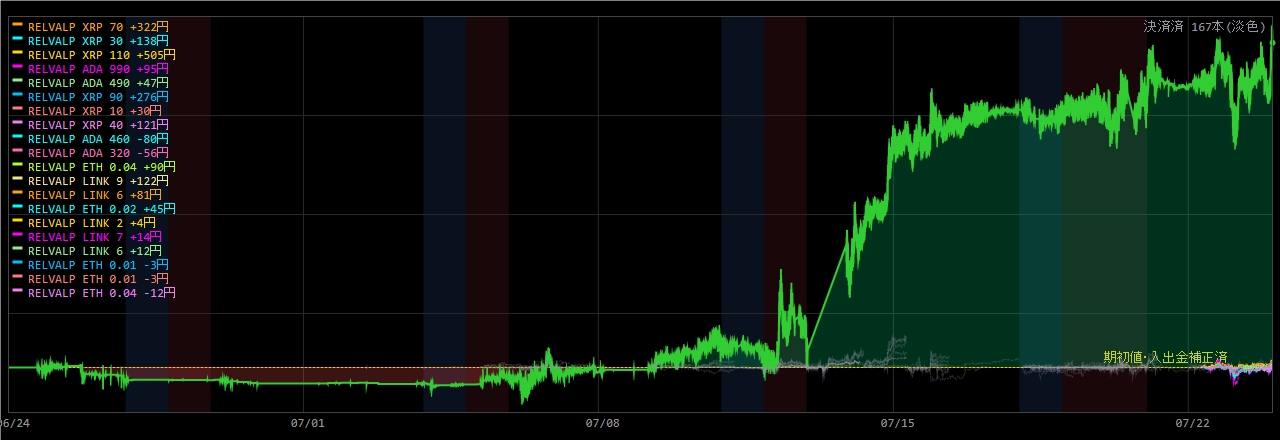
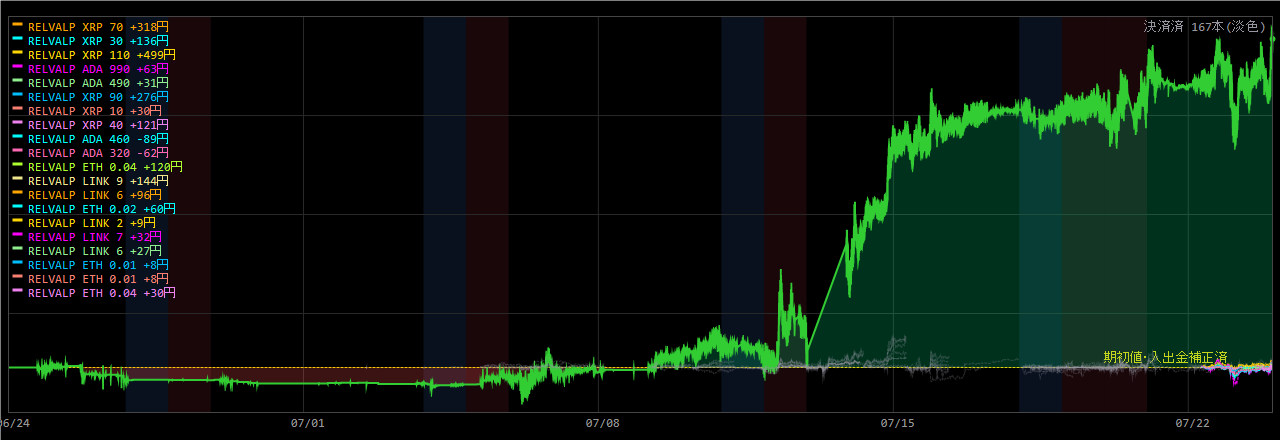
Coin100S 運用状況更新 07-23 22:53

diff --git a/coin100s-795hc4jfv8/index.html b/coin100s-795hc4jfv8/index.html
@@ -14,16 +14,16 @@ a{color:#60a5fa;text-decoration:none} a:hover{text-decoration:underline}
 .meta{color:#94a3b8;font-size:13px}</style>
 <script>setTimeout(function(){location.replace(location.pathname+"?t="+Date.now());},300000);</script></head><body>
 <h1>Coin100S ダッシュボード</h1>
-<p class="meta">スナップショット: 2026-07-23 22:46:39(自動リロード・最新化)</p>
+<p class="meta">スナップショット: 2026-07-23 22:52:39(自動リロード・最新化)</p>
 <div class="cards">
 <div class="card">建玉数<div class="v">20</div></div>
 <div class="card">本日損益<div class="v pos">+469円</div></div>
-<div class="card">評価損益<div class="v pos">+1,763円</div></div>
+<div class="card">評価損益<div class="v pos">+1,898円</div></div>
 </div>
 <h2>現在の建玉</h2>
-<table><tr><th>銘柄</th><th>側</th><th>数量</th><th>建値</th><th>含損益</th><th>レッグ</th></tr><tr><td>ADA_JPY</td><td>SELL</td><td>320</td><td>@28</td><td>-63円</td><td>RELVALP_SL700</td></tr><tr><td>ADA_JPY</td><td>SELL</td><td>460</td><td>@28</td><td>-91円</td><td>RELVALP_SELL</td></tr><tr><td>ADA_JPY</td><td>SELL</td><td>490</td><td>@28</td><td>+31円</td><td>RELVALP_SL700</td></tr><tr><td>ADA_JPY</td><td>SELL</td><td>990</td><td>@28</td><td>+63円</td><td>RELVALP_SELL</td></tr><tr><td>ETH_JPY</td><td>SELL</td><td>0.04</td><td>@312,191</td><td>-1円</td><td>RELVALP_SELL</td></tr><tr><td>ETH_JPY</td><td>SELL</td><td>0.01</td><td>@312,191</td><td>-1円</td><td>RELVALP_SELL</td></tr><tr><td>ETH_JPY</td><td>SELL</td><td>0.01</td><td>@312,216</td><td>0円</td><td>RELVALP_SELL</td></tr><tr><td>ETH_JPY</td><td>SELL</td><td>0.02</td><td>@314,458</td><td>+44円</td><td>RELVALP_SL700</td></tr><tr><td>ETH_JPY</td><td>SELL</td><td>0.04</td><td>@314,458</td><td>+89円</td><td>RELVALP_SELL</td></tr><tr><td>LINK_JPY</td><td>SELL</td><td>6</td><td>@1,398</td><td>+24円</td><td>RELVALP_SL700</td></tr><tr><td>LINK_JPY</td><td>SELL</td><td>7</td><td>@1,398</td><td>+28円</td><td>RELVALP_SELL</td></tr><tr><td>LINK_JPY</td><td>SELL</td><td>2</td><td>@1,398</td><td>+8円</td><td>RELVALP_SELL</td></tr><tr><td>LINK_JPY</td><td>SELL</td><td>6</td><td>@1,409</td><td>+90円</td><td>RELVALP_SL700</td></tr><tr><td>LINK_JPY</td><td>SELL</td><td>9</td><td>@1,409</td><td>+135円</td><td>RELVALP_SELL</td></tr><tr><td>XRP_JPY</td><td>SELL</td><td>40</td><td>@186</td><td>+128円</td><td>RELVALP_SL700</td></tr><tr><td>XRP_JPY</td><td>SELL</td><td>10</td><td>@186</td><td>+32円</td><td>RELVALP_SELL</td></tr><tr><td>XRP_JPY</td><td>SELL</td><td>90</td><td>@186</td><td>+290円</td><td>RELVALP_SELL</td></tr><tr><td>XRP_JPY</td><td>SELL</td><td>110</td><td>@187</td><td>+506円</td><td>RELVALP_SELL</td></tr><tr><td>XRP_JPY</td><td>SELL</td><td>30</td><td>@187</td><td>+138円</td><td>RELVALP_SELL</td></tr><tr><td>XRP_JPY</td><td>SELL</td><td>70</td><td>@187</td><td>+322円</td><td>RELVALP_SL700</td></tr></table>
+<table><tr><th>銘柄</th><th>側</th><th>数量</th><th>建値</th><th>含損益</th><th>レッグ</th></tr><tr><td>ADA_JPY</td><td>SELL</td><td>320</td><td>@28</td><td>-63円</td><td>RELVALP_SL700</td></tr><tr><td>ADA_JPY</td><td>SELL</td><td>460</td><td>@28</td><td>-91円</td><td>RELVALP_SELL</td></tr><tr><td>ADA_JPY</td><td>SELL</td><td>490</td><td>@28</td><td>+31円</td><td>RELVALP_SL700</td></tr><tr><td>ADA_JPY</td><td>SELL</td><td>990</td><td>@28</td><td>+63円</td><td>RELVALP_SELL</td></tr><tr><td>ETH_JPY</td><td>SELL</td><td>0.04</td><td>@312,191</td><td>+31円</td><td>RELVALP_SELL</td></tr><tr><td>ETH_JPY</td><td>SELL</td><td>0.01</td><td>@312,191</td><td>+7円</td><td>RELVALP_SELL</td></tr><tr><td>ETH_JPY</td><td>SELL</td><td>0.01</td><td>@312,216</td><td>+8円</td><td>RELVALP_SELL</td></tr><tr><td>ETH_JPY</td><td>SELL</td><td>0.02</td><td>@314,458</td><td>+61円</td><td>RELVALP_SL700</td></tr><tr><td>ETH_JPY</td><td>SELL</td><td>0.04</td><td>@314,458</td><td>+122円</td><td>RELVALP_SELL</td></tr><tr><td>LINK_JPY</td><td>SELL</td><td>6</td><td>@1,398</td><td>+24円</td><td>RELVALP_SL700</td></tr><tr><td>LINK_JPY</td><td>SELL</td><td>7</td><td>@1,398</td><td>+28円</td><td>RELVALP_SELL</td></tr><tr><td>LINK_JPY</td><td>SELL</td><td>2</td><td>@1,398</td><td>+8円</td><td>RELVALP_SELL</td></tr><tr><td>LINK_JPY</td><td>SELL</td><td>6</td><td>@1,409</td><td>+90円</td><td>RELVALP_SL700</td></tr><tr><td>LINK_JPY</td><td>SELL</td><td>9</td><td>@1,409</td><td>+135円</td><td>RELVALP_SELL</td></tr><tr><td>XRP_JPY</td><td>SELL</td><td>40</td><td>@186</td><td>+131円</td><td>RELVALP_SL700</td></tr><tr><td>XRP_JPY</td><td>SELL</td><td>10</td><td>@186</td><td>+32円</td><td>RELVALP_SELL</td></tr><tr><td>XRP_JPY</td><td>SELL</td><td>90</td><td>@186</td><td>+298円</td><td>RELVALP_SELL</td></tr><tr><td>XRP_JPY</td><td>SELL</td><td>110</td><td>@187</td><td>+515円</td><td>RELVALP_SELL</td></tr><tr><td>XRP_JPY</td><td>SELL</td><td>30</td><td>@187</td><td>+140円</td><td>RELVALP_SELL</td></tr><tr><td>XRP_JPY</td><td>SELL</td><td>70</td><td>@187</td><td>+328円</td><td>RELVALP_SL700</td></tr></table>
 <p><a href="status.html"><b>▶ 運用状況の詳細(チャート・本日の取引・レジーム)</b></a></p>
 <h2>日報一覧</h2>
 <table><tr><th>取引日</th><th>実現損益</th><th>総括</th></tr><tr><td><a href='reports/20260722_Coin100S日報.html'>2026-07-22</a></td><td class="pos">+0円</td><td class='meta'>実取引: 新規10件/決済5件、実現損益 +0円。シグナル却下1件（最多: BW10M3_5M／トレンド方向ゲート(N分傾き下と不一致=逆張り方向のfade禁止)）。⚠警告/エラー 9件（要確認）。</td></tr><tr><td><a href='reports/20260721_Coin100S日報.html'>2026-07-21</a></td><td class="pos">+0円</td><td class='meta'>実取引: 新規4件/決済13件、実現損益 +0円。⚠警告/エラー 13件（要確認）。</td></tr><tr><td><a href='reports/20260720_Coin100S日報.html'>2026-07-20</a></td><td class="pos">+0円</td><td class='meta'>実取引: 新規8件/決済21件、実現損益 +0円。シグナル却下8件（最多: BW10M3_5M／トレンド方向ゲート(N分傾き上と不一致=逆張り方向のfade禁止)）。⚠警告/エラー 13件（要確認）。</td></tr><tr><td><a href='reports/20260719_Coin100S日報.html'>2026-07-19</a></td><td class="pos">+0円</td><td class='meta'>実取引: 新規10件/決済7件、実現損益 +0円。⚠警告/エラー 3件（要確認）。</td></tr><tr><td><a href='reports/20260718_Coin100S日報.html'>2026-07-18</a></td><td class="pos">+0円</td><td class='meta'>実取引: 新規9件/決済8件、実現損益 +0円。警告/孤児/エラーなし＝健全。</td></tr><tr><td><a href='reports/20260717_Coin100S日報.html'>2026-07-17</a></td><td class="pos">+0円</td><td class='meta'>実取引: 新規3件/決済2件、実現損益 +0円。シグナル却下1件（最多: BW10M3_5M／トレンド方向ゲート(N分傾き下と不一致=逆張り方向のfade禁止)）。⚠警告/エラー 2件（要確認）。</td></tr><tr><td><a href='reports/20260716_Coin100S日報.html'>2026-07-16</a></td><td class="pos">+0円</td><td class='meta'>実取引: 新規0件/決済5件、実現損益 +0円。⚠警告/エラー 7件（要確認）。</td></tr><tr><td><a href='reports/20260715_Coin100S日報.html'>2026-07-15</a></td><td class="pos">+0円</td><td class='meta'>実取引: 新規6件/決済5件、実現損益 +0円。シグナル却下6件（最多: BW10M3_5M／トレンド方向ゲート(N分傾き上と不一致=逆張り方向のfade禁止)）。⚠警告/エラー 7件（要確認）。</td></tr><tr><td><a href='reports/20260714_Coin100S日報.html'>2026-07-14</a></td><td class="pos">+0円</td><td class='meta'>実取引: 新規6件/決済18件、実現損益 +0円。シグナル却下5件（最多: BW10M3_5M／トレンド方向ゲート(N分傾き上と不一致=逆張り方向のfade禁止)）。⚠警告/エラー 9件（要確認）。</td></tr><tr><td><a href='reports/20260713_Coin100S日報.html'>2026-07-13</a></td><td class="pos">+0円</td><td class='meta'>実取引: 新規5件/決済8件、実現損益 +0円。シグナル却下1件（最多: BW10M3_5M／トレンド方向ゲート(N分傾き上と不一致=逆張り方向のfade禁止)）。警告/孤児/エラーなし＝健全。</td></tr><tr><td><a href='reports/20260712_Coin100S日報.html'>2026-07-12</a></td><td class="pos">+0円</td><td class='meta'>実取引: 新規14件/決済6件、実現損益 +0円。シグナル却下5件（最多: BW10M3_5M／トレンド方向ゲート(N分傾き下と不一致=逆張り方向のfade禁止)）。⚠警告/エラー 2件（要確認）。</td></tr><tr><td><a href='reports/20260711_Coin100S日報.html'>2026-07-11</a></td><td class="pos">+0円</td><td class='meta'>実取引: 新規7件/決済6件、実現損益 +0円。⚠警告/エラー 52件（要確認）。</td></tr><tr><td><a href='reports/20260710_Coin100S日報.html'>2026-07-10</a></td><td class="pos">+0円</td><td class='meta'>実取引: 新規7件/決済6件、実現損益 +0円。シグナル却下6件（最多: BW10M3_5M／トレンド方向ゲート(N分傾き上と不一致=逆張り方向のfade禁止)）。警告/孤児/エラーなし＝健全。</td></tr><tr><td><a href='reports/20260709_Coin100S日報.html'>2026-07-09</a></td><td class="pos">+0円</td><td class='meta'>実取引: 新規8件/決済3件、実現損益 +0円。シグナル却下5件（最多: SD120M_5M／トレンド方向ゲート(N分傾き上と不一致=逆張り方向のfade禁止)）。警告/孤児/エラーなし＝健全。</td></tr><tr><td><a href='reports/20260708_Coin100S日報.html'>2026-07-08</a></td><td class="pos">+0円</td><td class='meta'>実取引: 新規2件/決済4件、実現損益 +0円。シグナル却下4件（最多: SD120M_5M／トレンド方向ゲート(N分傾き下と不一致=逆張り方向のfade禁止)）。警告/孤児/エラーなし＝健全。</td></tr><tr><td><a href='reports/20260707_Coin100S日報.html'>2026-07-07</a></td><td class="pos">+0円</td><td class='meta'>実取引: 新規8件/決済6件、実現損益 +0円。シグナル却下4件（最多: SD120M_5M／トレンド方向ゲート(N分傾き上と不一致=逆張り方向のfade禁止)）。⚠警告/エラー 258件（要確認）。</td></tr><tr><td><a href='reports/20260706_Coin100S日報.html'>2026-07-06</a></td><td class="pos">+0円</td><td class='meta'>実取引: 新規9件/決済6件、実現損益 +0円。シグナル却下9件（最多: SD120M_5M／トレンド方向ゲート(N分傾き上と不一致=逆張り方向のfade禁止)）。⚠警告/エラー 150件（要確認）。</td></tr><tr><td><a href='reports/20260705_Coin100S日報.html'>2026-07-05</a></td><td class="pos">+0円</td><td class='meta'>実取引: 新規8件/決済3件、実現損益 +0円。⚠警告/エラー 2件（要確認）。</td></tr><tr><td><a href='reports/20260704_Coin100S日報.html'>2026-07-04</a></td><td class="pos">+0円</td><td class='meta'>実取引: 新規1件/決済2件、実現損益 +0円。⚠警告/エラー 2件（要確認）。</td></tr><tr><td><a href='reports/20260703_Coin100S日報.html'>2026-07-03</a></td><td class="pos">+0円</td><td class='meta'>実取引: 新規5件/決済4件、実現損益 +0円。⚠警告/エラー 15件（要確認）。</td></tr><tr><td><a href='reports/20260702_Coin100S日報.html'>2026-07-02</a></td><td class="pos">+0円</td><td class='meta'>実取引: 新規7件/決済5件、実現損益 +0円。シグナル却下17件（最多: SD120M_5M／トレンド方向ゲート(N分傾き上と不一致=逆張り方向のfade禁止)）。⚠警告/エラー 26件（要確認）。</td></tr><tr><td><a href='reports/20260701_Coin100S日報.html'>2026-07-01</a></td><td class="pos">+0円</td><td class='meta'>実取引: 新規14件/決済8件、実現損益 +0円。シグナル却下14件（最多: SD120M_5M／ボラ軸ゲート(SDN%&amp;gt;N%=高ボラ/荒れレンジ)）。⚠警告/エラー 2件（要確認）。</td></tr><tr><td><a href='reports/20260630_Coin100S日報.html'>2026-06-30</a></td><td class="pos">+0円</td><td class='meta'>実取引: 新規0件/決済1件、実現損益 +0円。シグナル却下29件（最多: 微5M／当日枠N）。警告/孤児/エラーなし＝健全。</td></tr></table>
-<hr><p class="meta">更新: 2026-07-23 22:47:07 / 自動生成: tools/web_publish.py(§580)</p>
+<hr><p class="meta">更新: 2026-07-23 22:53:07 / 自動生成: tools/web_publish.py(§580)</p>
 </body></html>

diff --git a/coin100s-795hc4jfv8/status.html b/coin100s-795hc4jfv8/status.html
@@ -14,22 +14,22 @@ a{color:#60a5fa;text-decoration:none} a:hover{text-decoration:underline}
 .meta{color:#94a3b8;font-size:13px}</style>
 <script>setTimeout(function(){location.replace(location.pathname+"?t="+Date.now());},300000);</script></head><body>
 <h1>Coin100S 運用状況</h1>
-<p class="meta">スナップショット: 2026-07-23 22:46:39 / ページ生成: 2026-07-23 22:47:07(自動リロード・最新化) / <a href="index.html">目次へ</a></p>
+<p class="meta">スナップショット: 2026-07-23 22:52:39 / ページ生成: 2026-07-23 22:53:07(自動リロード・最新化) / <a href="index.html">目次へ</a></p>
 <div class="cards">
 <div class="card">建玉数<div class="v">20</div></div>
 <div class="card">本日損益<div class="v pos">+469円</div></div>
-<div class="card">評価損益<div class="v pos">+1,763円</div></div>
+<div class="card">評価損益<div class="v pos">+1,898円</div></div>
 </div>
 <h2>資産推移(直近30日)</h2>
-<img src="status_equity.png?t=2247" alt="equity">
+<img src="status_equity.png?t=2253" alt="equity">
 <h2>取引チャート(直近24h)</h2>
-<img src="status_chart.png?t=2247" alt="chart">
+<img src="status_chart.png?t=2253" alt="chart">
 <h2>建玉一覧</h2>
-<table><tr><th>銘柄</th><th>側</th><th>数量</th><th>建値</th><th>含損益</th><th>レッグ</th></tr><tr><td>ADA_JPY</td><td>SELL</td><td>320</td><td>@28</td><td>-63円</td><td>RELVALP_SL700</td></tr><tr><td>ADA_JPY</td><td>SELL</td><td>460</td><td>@28</td><td>-91円</td><td>RELVALP_SELL</td></tr><tr><td>ADA_JPY</td><td>SELL</td><td>490</td><td>@28</td><td>+31円</td><td>RELVALP_SL700</td></tr><tr><td>ADA_JPY</td><td>SELL</td><td>990</td><td>@28</td><td>+63円</td><td>RELVALP_SELL</td></tr><tr><td>ETH_JPY</td><td>SELL</td><td>0.04</td><td>@312,191</td><td>-1円</td><td>RELVALP_SELL</td></tr><tr><td>ETH_JPY</td><td>SELL</td><td>0.01</td><td>@312,191</td><td>-1円</td><td>RELVALP_SELL</td></tr><tr><td>ETH_JPY</td><td>SELL</td><td>0.01</td><td>@312,216</td><td>0円</td><td>RELVALP_SELL</td></tr><tr><td>ETH_JPY</td><td>SELL</td><td>0.02</td><td>@314,458</td><td>+44円</td><td>RELVALP_SL700</td></tr><tr><td>ETH_JPY</td><td>SELL</td><td>0.04</td><td>@314,458</td><td>+89円</td><td>RELVALP_SELL</td></tr><tr><td>LINK_JPY</td><td>SELL</td><td>6</td><td>@1,398</td><td>+24円</td><td>RELVALP_SL700</td></tr><tr><td>LINK_JPY</td><td>SELL</td><td>7</td><td>@1,398</td><td>+28円</td><td>RELVALP_SELL</td></tr><tr><td>LINK_JPY</td><td>SELL</td><td>2</td><td>@1,398</td><td>+8円</td><td>RELVALP_SELL</td></tr><tr><td>LINK_JPY</td><td>SELL</td><td>6</td><td>@1,409</td><td>+90円</td><td>RELVALP_SL700</td></tr><tr><td>LINK_JPY</td><td>SELL</td><td>9</td><td>@1,409</td><td>+135円</td><td>RELVALP_SELL</td></tr><tr><td>XRP_JPY</td><td>SELL</td><td>40</td><td>@186</td><td>+128円</td><td>RELVALP_SL700</td></tr><tr><td>XRP_JPY</td><td>SELL</td><td>10</td><td>@186</td><td>+32円</td><td>RELVALP_SELL</td></tr><tr><td>XRP_JPY</td><td>SELL</td><td>90</td><td>@186</td><td>+290円</td><td>RELVALP_SELL</td></tr><tr><td>XRP_JPY</td><td>SELL</td><td>110</td><td>@187</td><td>+506円</td><td>RELVALP_SELL</td></tr><tr><td>XRP_JPY</td><td>SELL</td><td>30</td><td>@187</td><td>+138円</td><td>RELVALP_SELL</td></tr><tr><td>XRP_JPY</td><td>SELL</td><td>70</td><td>@187</td><td>+322円</td><td>RELVALP_SL700</td></tr></table>
+<table><tr><th>銘柄</th><th>側</th><th>数量</th><th>建値</th><th>含損益</th><th>レッグ</th></tr><tr><td>ADA_JPY</td><td>SELL</td><td>320</td><td>@28</td><td>-63円</td><td>RELVALP_SL700</td></tr><tr><td>ADA_JPY</td><td>SELL</td><td>460</td><td>@28</td><td>-91円</td><td>RELVALP_SELL</td></tr><tr><td>ADA_JPY</td><td>SELL</td><td>490</td><td>@28</td><td>+31円</td><td>RELVALP_SL700</td></tr><tr><td>ADA_JPY</td><td>SELL</td><td>990</td><td>@28</td><td>+63円</td><td>RELVALP_SELL</td></tr><tr><td>ETH_JPY</td><td>SELL</td><td>0.04</td><td>@312,191</td><td>+31円</td><td>RELVALP_SELL</td></tr><tr><td>ETH_JPY</td><td>SELL</td><td>0.01</td><td>@312,191</td><td>+7円</td><td>RELVALP_SELL</td></tr><tr><td>ETH_JPY</td><td>SELL</td><td>0.01</td><td>@312,216</td><td>+8円</td><td>RELVALP_SELL</td></tr><tr><td>ETH_JPY</td><td>SELL</td><td>0.02</td><td>@314,458</td><td>+61円</td><td>RELVALP_SL700</td></tr><tr><td>ETH_JPY</td><td>SELL</td><td>0.04</td><td>@314,458</td><td>+122円</td><td>RELVALP_SELL</td></tr><tr><td>LINK_JPY</td><td>SELL</td><td>6</td><td>@1,398</td><td>+24円</td><td>RELVALP_SL700</td></tr><tr><td>LINK_JPY</td><td>SELL</td><td>7</td><td>@1,398</td><td>+28円</td><td>RELVALP_SELL</td></tr><tr><td>LINK_JPY</td><td>SELL</td><td>2</td><td>@1,398</td><td>+8円</td><td>RELVALP_SELL</td></tr><tr><td>LINK_JPY</td><td>SELL</td><td>6</td><td>@1,409</td><td>+90円</td><td>RELVALP_SL700</td></tr><tr><td>LINK_JPY</td><td>SELL</td><td>9</td><td>@1,409</td><td>+135円</td><td>RELVALP_SELL</td></tr><tr><td>XRP_JPY</td><td>SELL</td><td>40</td><td>@186</td><td>+131円</td><td>RELVALP_SL700</td></tr><tr><td>XRP_JPY</td><td>SELL</td><td>10</td><td>@186</td><td>+32円</td><td>RELVALP_SELL</td></tr><tr><td>XRP_JPY</td><td>SELL</td><td>90</td><td>@186</td><td>+298円</td><td>RELVALP_SELL</td></tr><tr><td>XRP_JPY</td><td>SELL</td><td>110</td><td>@187</td><td>+515円</td><td>RELVALP_SELL</td></tr><tr><td>XRP_JPY</td><td>SELL</td><td>30</td><td>@187</td><td>+140円</td><td>RELVALP_SELL</td></tr><tr><td>XRP_JPY</td><td>SELL</td><td>70</td><td>@187</td><td>+328円</td><td>RELVALP_SL700</td></tr></table>
 <h2>実現決済履歴(直近15件・OrderId単位)</h2>
 <table><tr><th>決済時刻</th><th>レッグ</th><th>銘柄</th><th>実現損益</th></tr><tr><td>07-23 21:46</td><td>SIGFADE_SOL</td><td>SOL</td><td class="pos">+557円</td></tr><tr><td>07-23 06:08</td><td>RELVALP_SELL</td><td>SOL</td><td class="neg">-67円</td></tr><tr><td>07-23 06:08</td><td>RELVALP_SL700</td><td>SOL</td><td class="neg">-21円</td></tr><tr><td>07-23 01:34</td><td>SIGFADE_BTC</td><td>BTC</td><td class="pos">+27円</td></tr><tr><td>07-22 09:08</td><td>SIGFADE_SOL</td><td>SOL</td><td class="pos">+220円</td></tr><tr><td>07-22 09:08</td><td>SIGFADE_ETH</td><td>ETH</td><td class="pos">+243円</td></tr><tr><td>07-21 08:07</td><td>TENKI5D_REV_DOGE</td><td>DOGE</td><td class="neg">-210円</td></tr><tr><td>07-21 06:11</td><td>TENKI5D_REV_ETH</td><td>ETH</td><td class="pos">+622円</td></tr><tr><td>07-21 06:11</td><td>TENKI5D_REV_ETH</td><td>ETH</td><td class="pos">+124円</td></tr><tr><td>07-21 06:09</td><td>TENKI5D_REV_SOL</td><td>SOL</td><td class="pos">+287円</td></tr><tr><td>07-21 06:09</td><td>TENKI5D_REV_SOL</td><td>SOL</td><td class="pos">+454円</td></tr><tr><td>07-21 06:09</td><td>TENKI5D_REV_BTC</td><td>BTC</td><td class="pos">+649円</td></tr><tr><td>07-21 06:08</td><td>RELVALP_SELL</td><td>LTC</td><td class="neg">-267円</td></tr><tr><td>07-21 06:08</td><td>RELVALP_SL700</td><td>LTC</td><td class="neg">-90円</td></tr><tr><td>07-20 23:29</td><td>BW10M3_5M</td><td>BTC</td><td class="neg">-45円</td></tr></table>
 <!-- §799c 「本取引日の実取引(6:00起点)」テーブルは公開ページから削除(ユーザー指示2026-07-15・数量/指値まで晒す情報漏れ)。建玉/実現損益は許可・実発注の生取引明細は非公開 -->
 <h2>現在レジーム(3軸・§570c)</h2>
-<ul><li>アルト対BTC 5日: <b>+31bps</b>(アルト優越=RELVAL逆風)</li><li>BTC ER240m: <b>0.118</b>(閾値0.25→レンジ(fade順風/BWTRD逆風))</li><li>BTC実現ボラ240m: <b>3.94</b> bps/分</li></ul>
+<ul><li>アルト対BTC 5日: <b>+31bps</b>(アルト優越=RELVAL逆風)</li><li>BTC ER240m: <b>0.135</b>(閾値0.25→レンジ(fade順風/BWTRD逆風))</li><li>BTC実現ボラ240m: <b>4.08</b> bps/分</li></ul>
 <hr><p class="meta">自動生成: tools/web_publish.py(§580・読み取り専用)。売買判断はアプリ本体。</p>
 </body></html>
